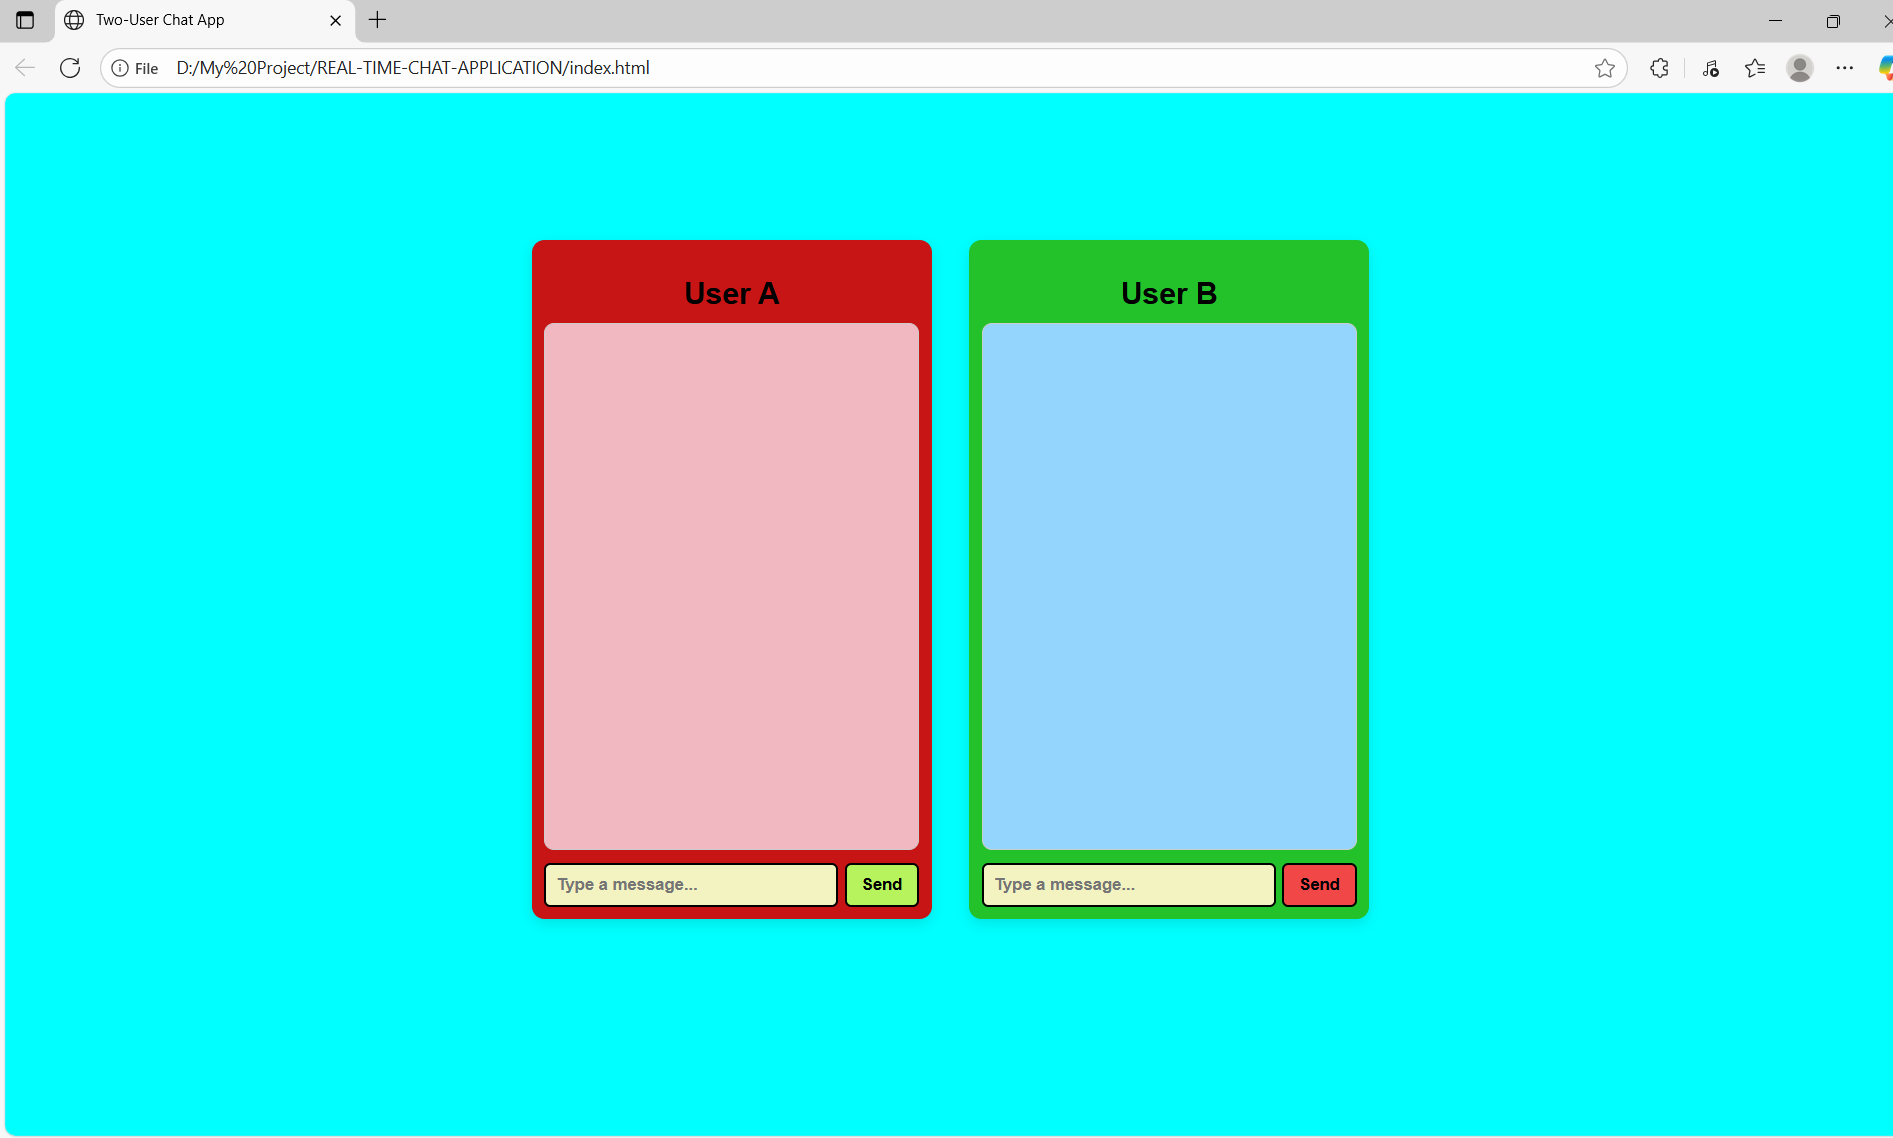
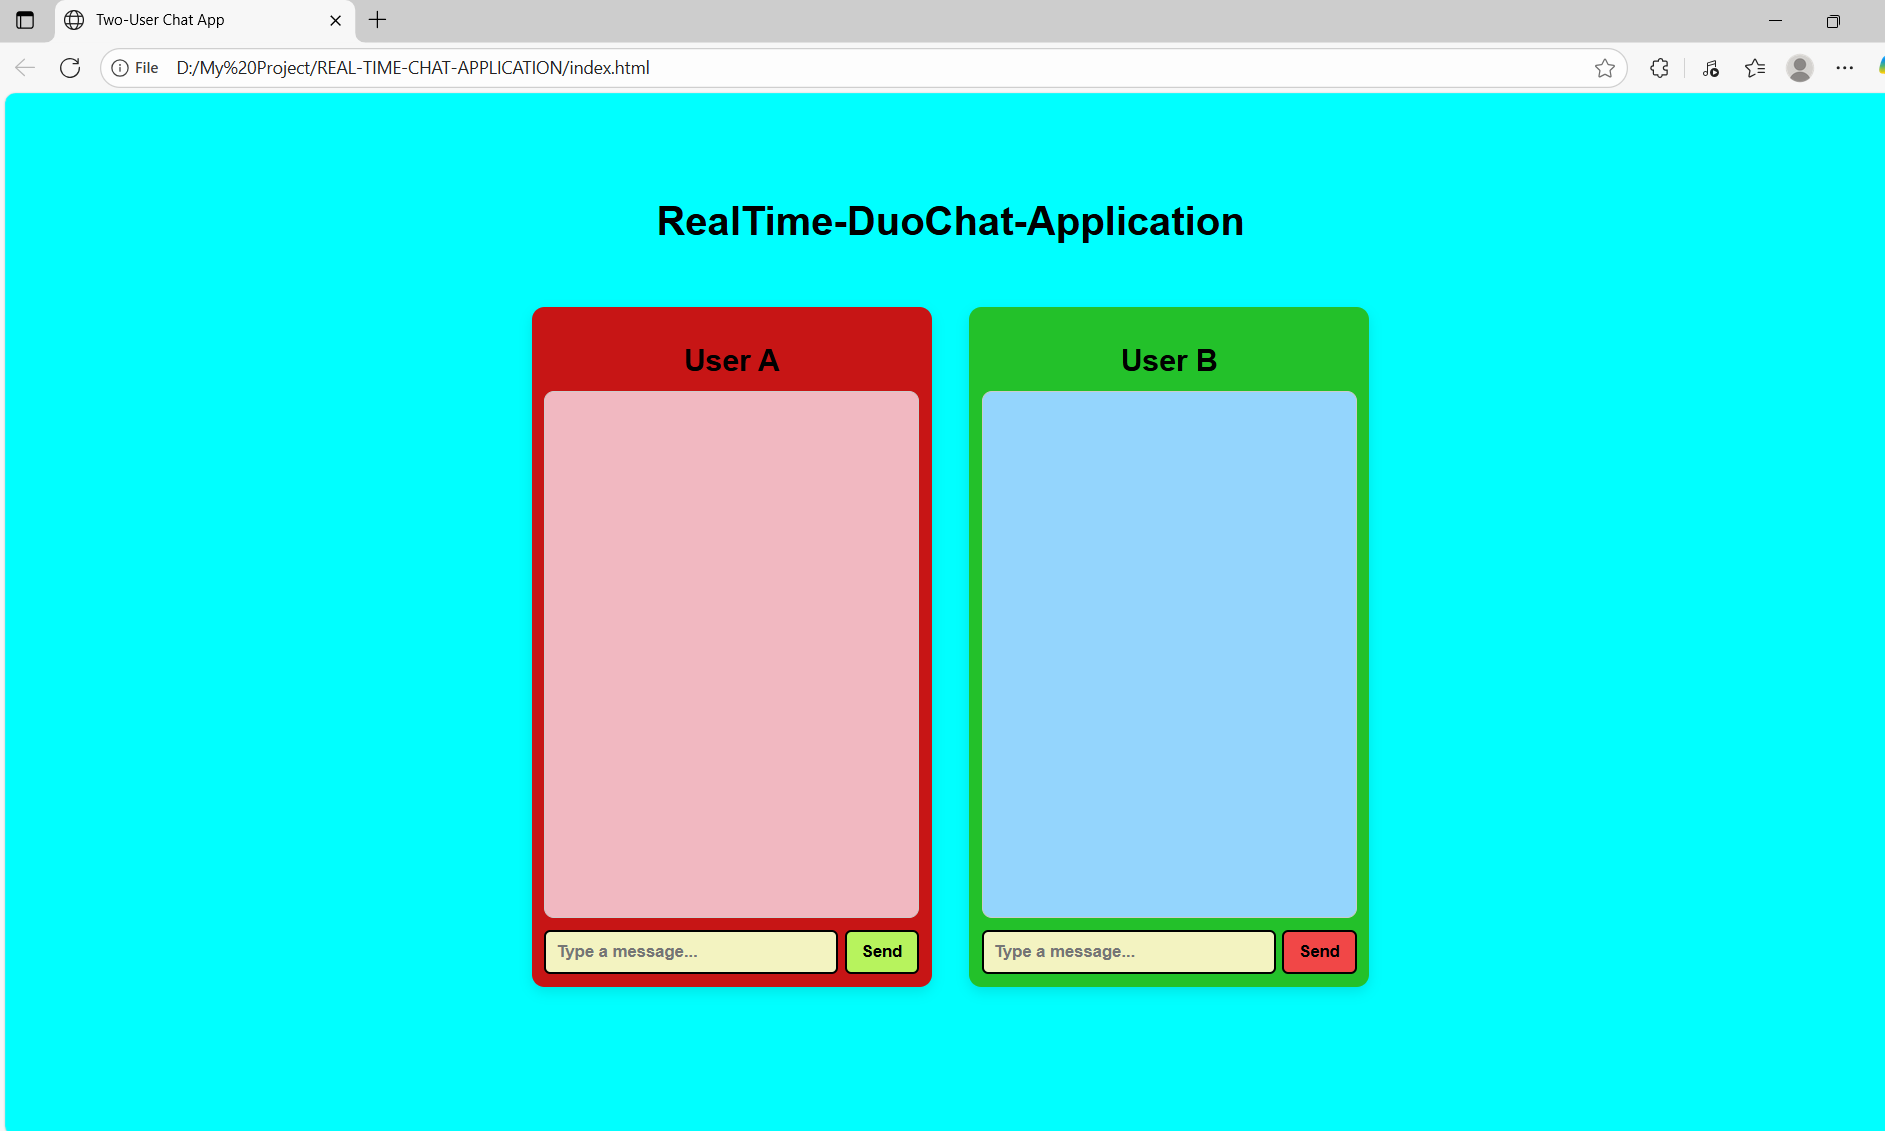
Initial commit: Add chat app files and README

diff --git a/style.css b/style.css
@@ -6,6 +6,7 @@ body {
     align-items: center;
     min-height: 100vh;
     padding: 20px;
+    text-align: center;
 }
 
 .chat-wrapper {
@@ -14,6 +15,14 @@ body {
     flex-wrap: wrap;
     justify-content: center;
 }
+
+.chat-wrapper h1 {
+    width: 100%;
+    text-align: center;
+    margin-bottom: 20px;
+    color: #000; /* agar color chahoge to change kar sakte ho */
+}
+
 
 .chat-container {
     width: 300px;

diff --git a/index.html b/index.html
@@ -8,6 +8,8 @@
 </head>
 <body>
     <div class="chat-wrapper">
+        <h1>RealTime-DuoChat-Application</h1>
+
 
         <!-- User A -->
         <div class="chat-container User-A">
